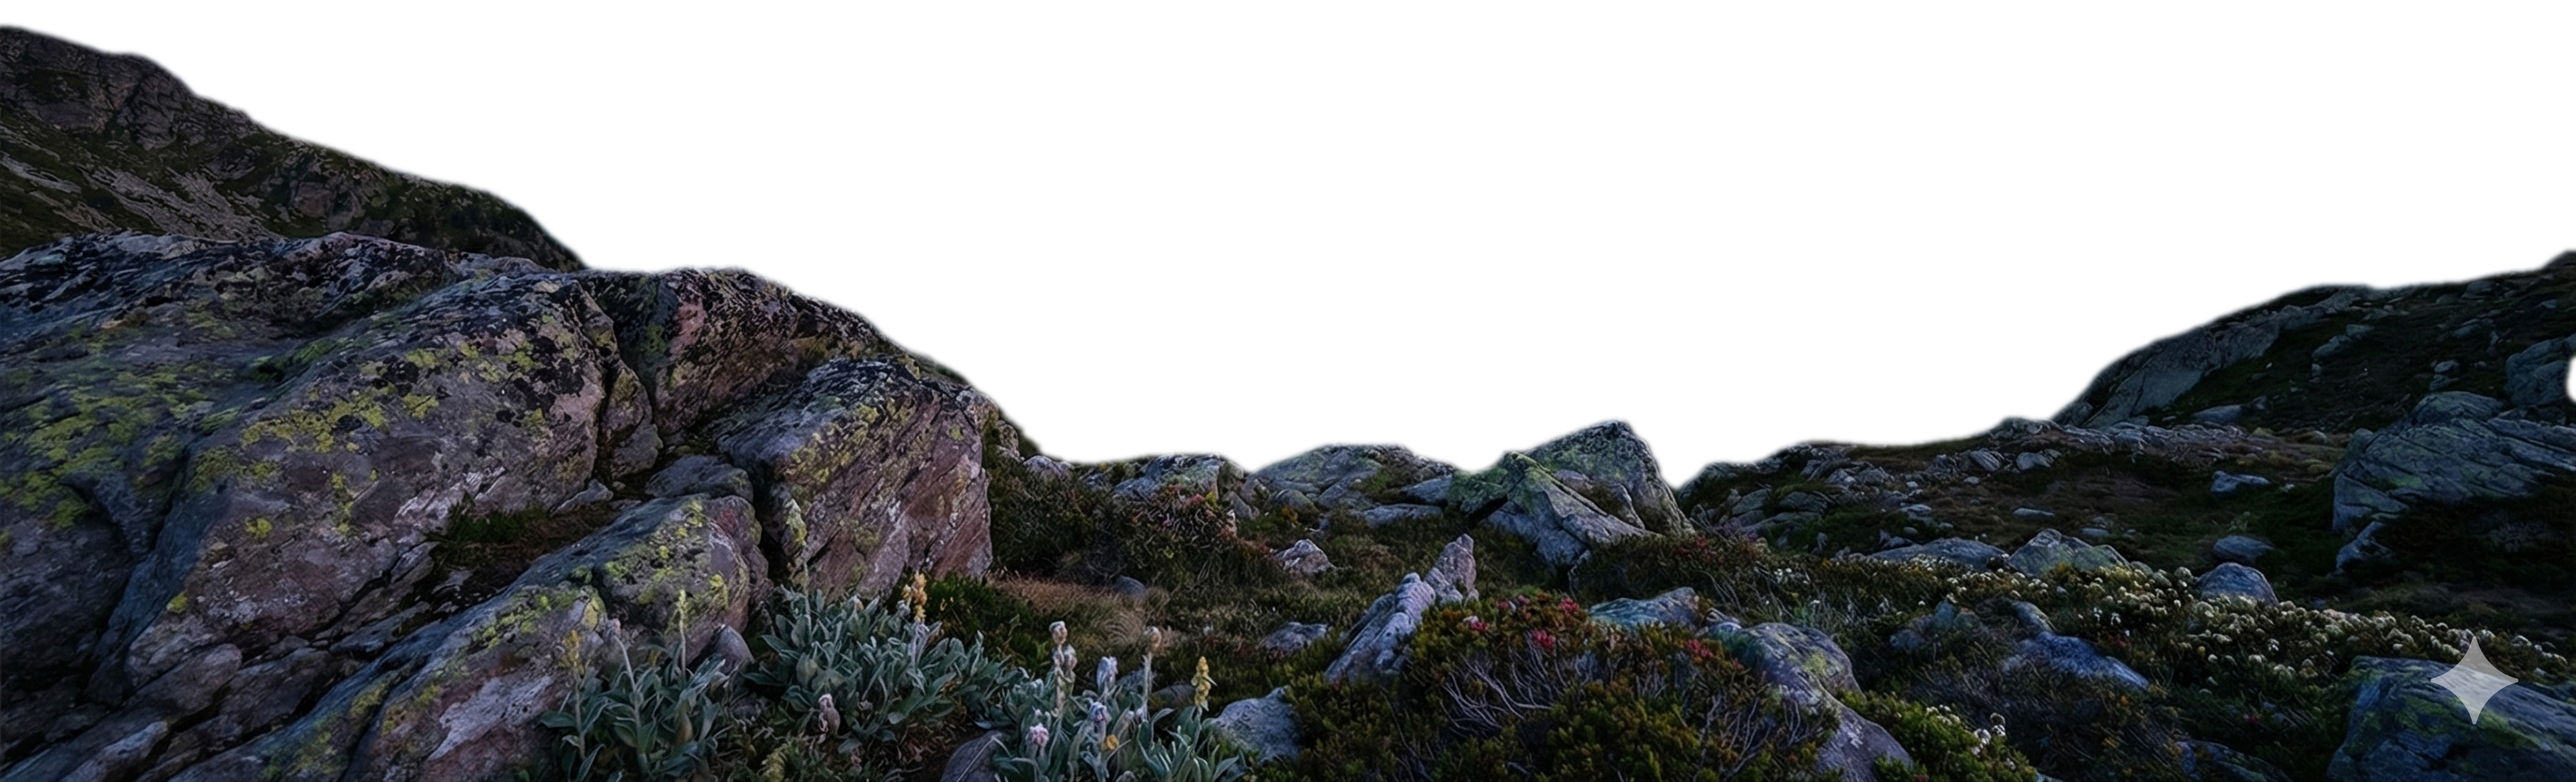
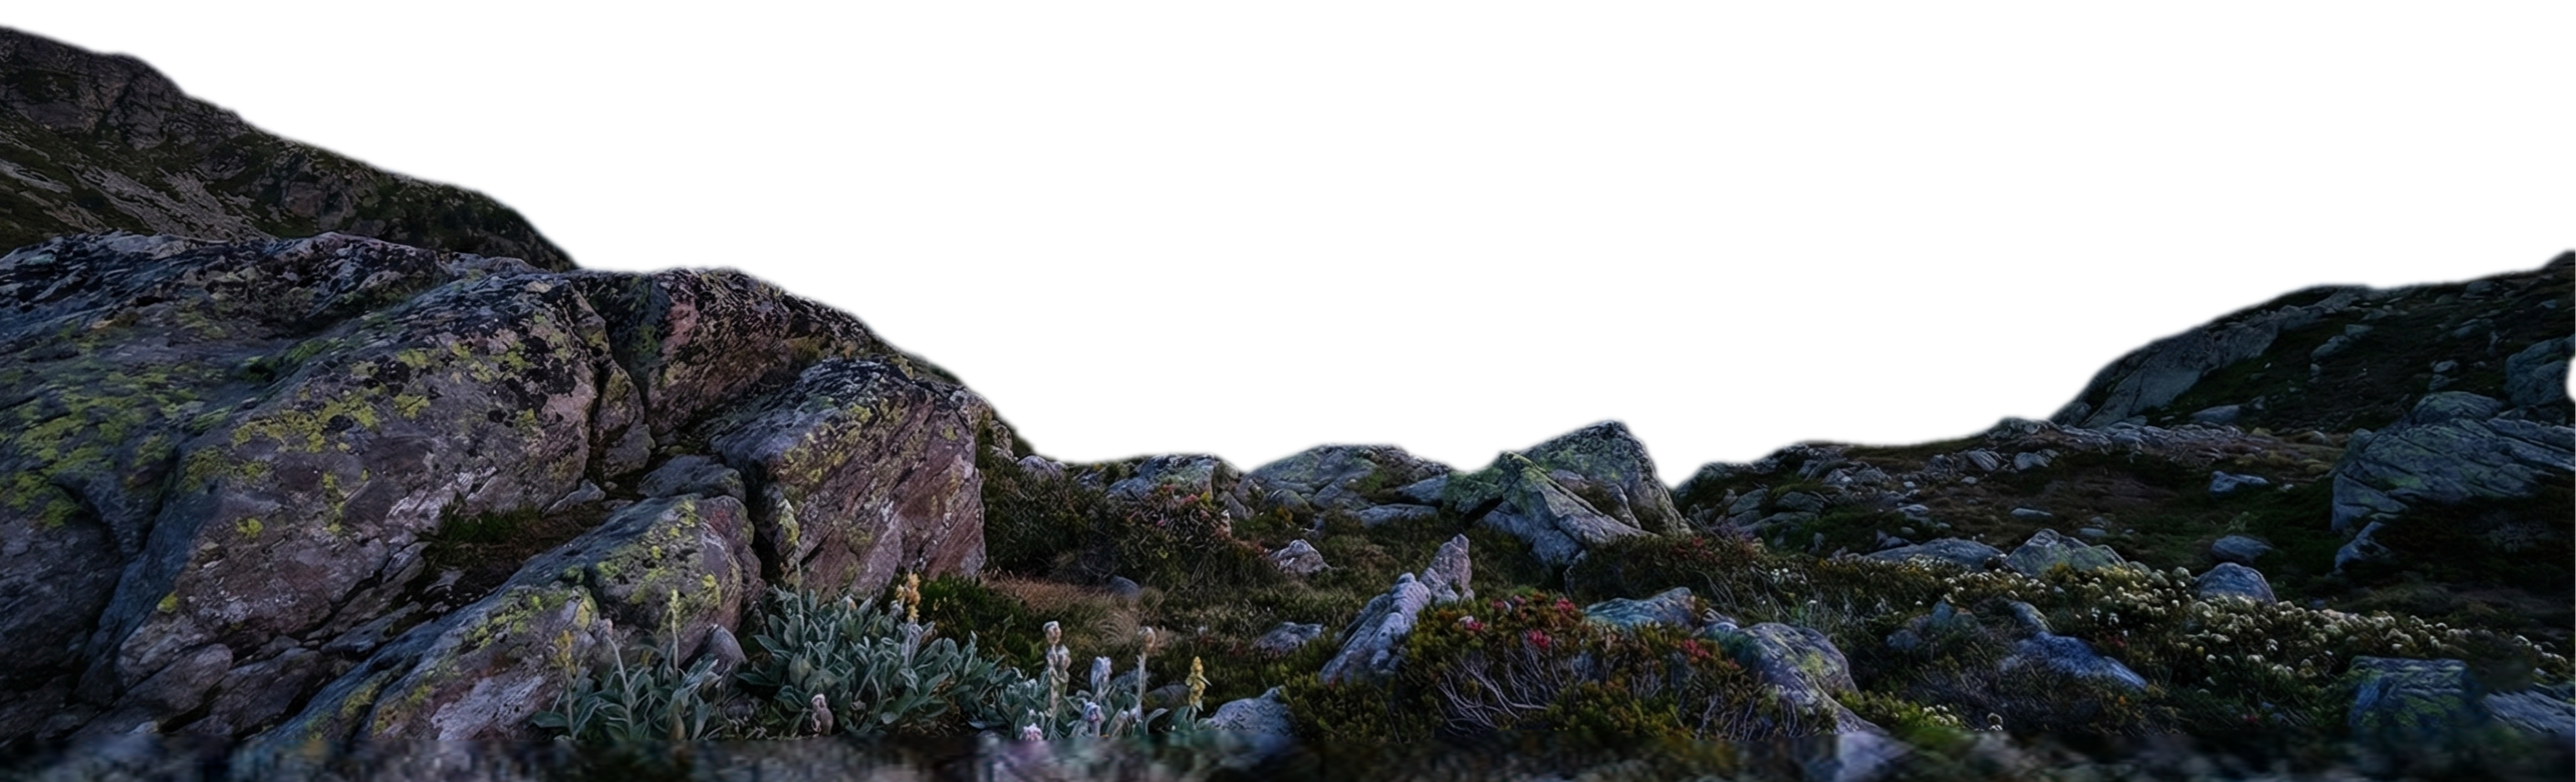
changed layout

Changed region(s): [[0.0, 0.0304, 1.0, 1.0], [0.8036, 0.4561, 0.8345, 0.517]]

diff --git a/ojass.org/src/app/page.tsx b/ojass.org/src/app/page.tsx
@@ -305,12 +305,12 @@ export default function Home() {
         </div>
 
         <div
-          className="fixed -bottom-[5vh] left-0"
+          className="fixed bottom-[0vh] left-0"
           // id="bottom"
           style={{
-            width: '120vw',
+            width: '100vw',
             height: '64vh',
-            marginLeft: '-10vw',
+            marginLeft: '0vw',
             backgroundImage: isDystopia ? 'url(/homelayer/bottom_dys.png)' : 'url(/homelayer/bottom.png)',
             backgroundSize: 'cover',
             backgroundPosition: 'bottom center',
